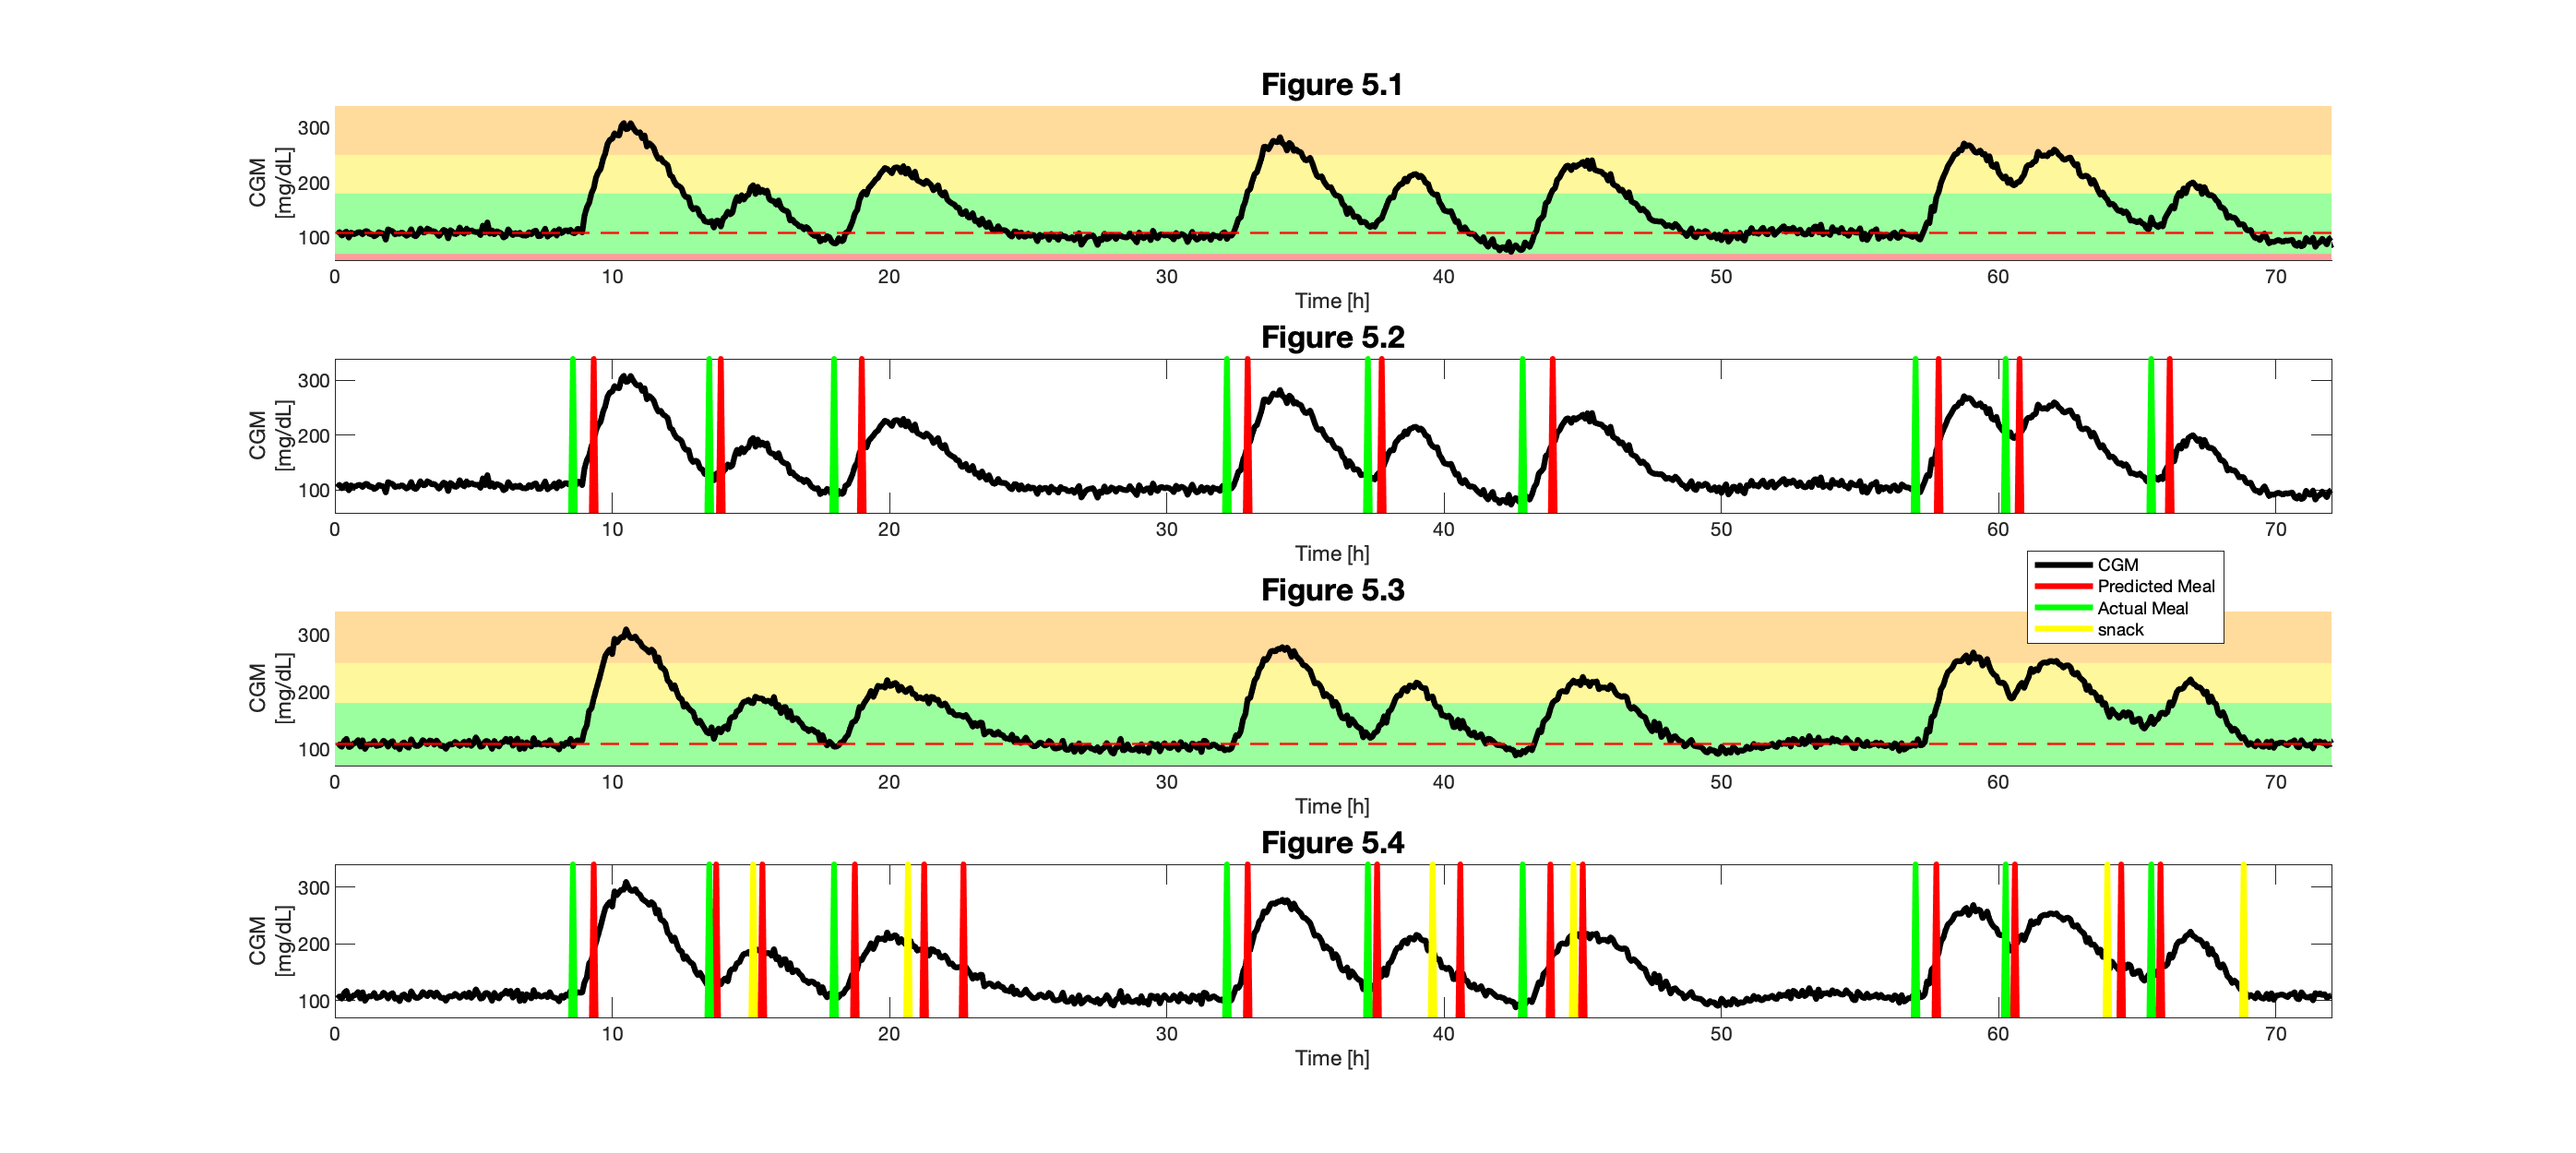
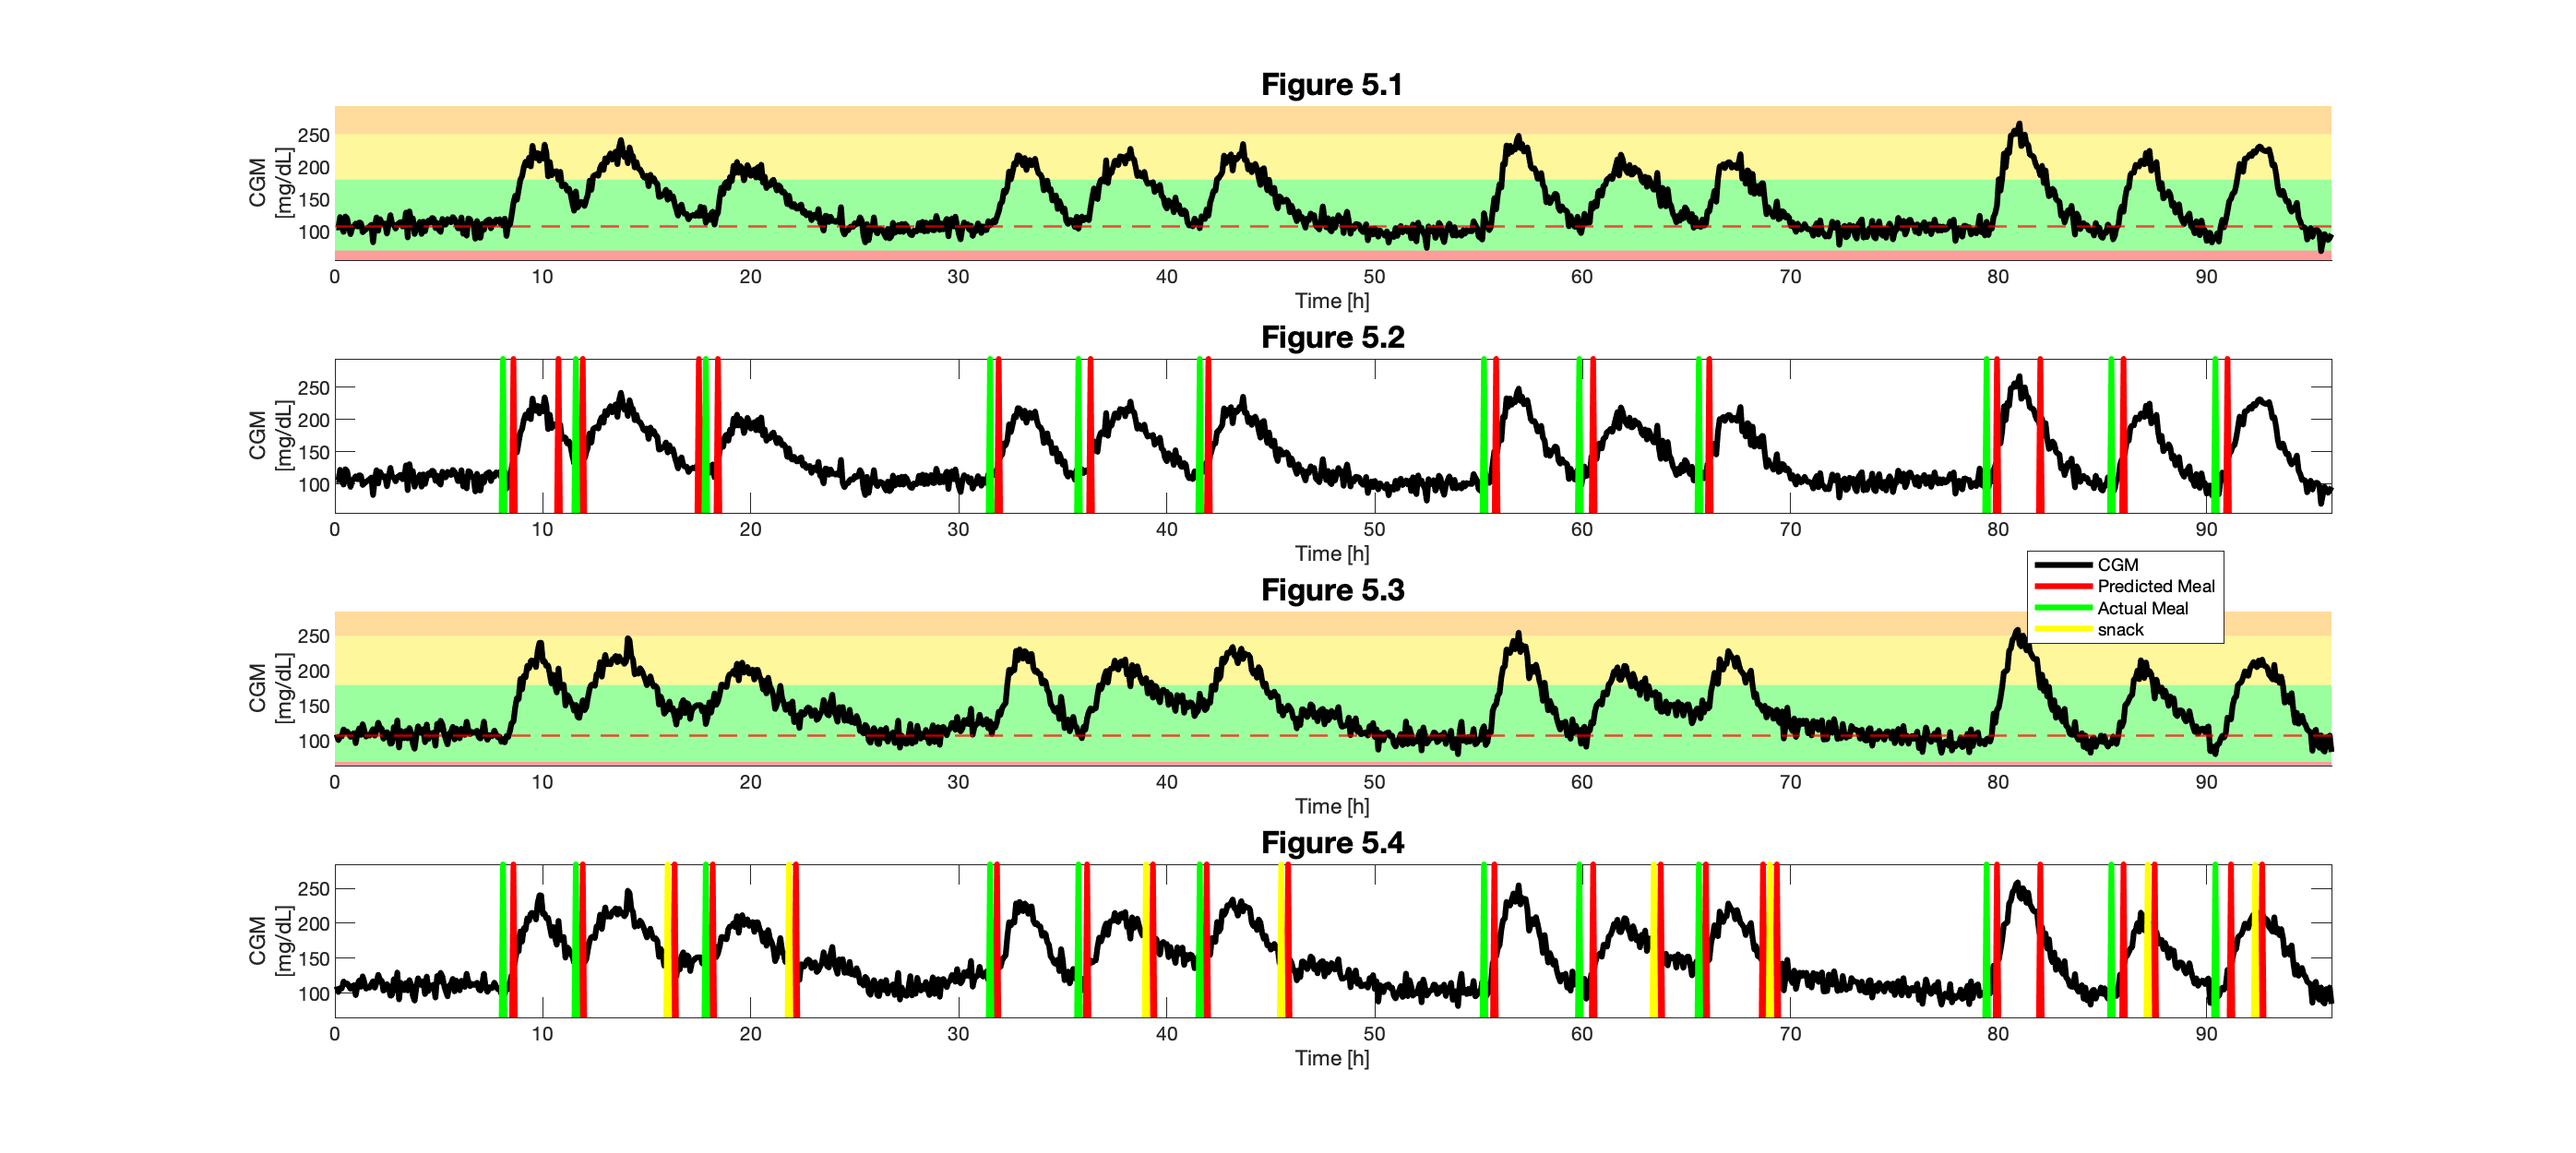
ny grid filter

diff --git a/Matlab/Meal_Detection/GRID_Filter.m b/Matlab/Meal_Detection/GRID_Filter.m
@@ -1,4 +1,4 @@
-function x=GRID_Filter(GRID)
+function [xTP, xFP]=GRID_Filter(D,GRID,t)
 %%%                     Function to handle the Grid output
 %Currently the GRID Algo returns a noisy output eg
 %0,0,0,0,0,1,1,1,1,0,0,0,0,1,1,1,0,0,0,0,0,0,0,0,0,1,1,1,1,1,1,1,1
@@ -9,13 +9,82 @@ function x=GRID_Filter(GRID)
 %GRID the binary vector produced by GridAlgo
 %% Output
 %x the filtered binary vector
-%%
+%% Merge meal peaks
+
+% Splits up a meal detected as one, but are actually two
+for i=1:length(GRID)
+   
+    if(GRID(i) == 1) % Identifies when a meal is predicted
+        j = 0;
+        while(GRID(i+j)==1) % As long as the next index in the GRID oiutput is 1 this whileloop is going
+           
+            if(i+j+5 >= length(GRID)) % Makes sure we dont go out of bound
+                break;
+            end
+            
+            % If there is a 20min gap between two meals, its merged as one
+            % meal
+           if(GRID(i+j) == 1 && GRID(i+j+1) == 0 && GRID(i+j+2) == 0 && GRID(i+j+3) == 0 && GRID(i+j+4) == 0 && GRID(i+j+5) == 1)
+              GRID(i+j+1) = 1;
+              GRID(i+j+2) = 1;
+              GRID(i+j+3) = 1;
+              GRID(i+j+4) = 1;
+           end
+
+           % If there is a 15min gap between two meals, its merged as one
+            % meal
+           if(GRID(i+j) == 1 && GRID(i+j+1) == 0 && GRID(i+j+2) == 0 && GRID(i+j+3) == 0 && GRID(i+j+4) == 1)
+              GRID(i+j+1) = 1;
+              GRID(i+j+2) = 1;
+              GRID(i+j+3) = 1;
+           end
+            
+           % If there is a 10min gap between two meals, its merged as one
+            % meal
+           if(GRID(i+j) == 1 && GRID(i+j+1) == 0 && GRID(i+j+2) == 0 && GRID(i+j+3) == 1)
+              GRID(i+j+1) = 1;
+              GRID(i+j+2) = 1;
+           end
+           
+           % If there is a 5min gap between two meals, its merged as one
+            % meal
+           if(GRID(i+j) == 1 && GRID(i+j+1) == 0 && GRID(i+j+2) == 1 )
+              GRID(i+j+1) = 1;
+           end
+           
+           % makes sure we dont go out of bound
+           if(i+j-2 == 0)
+               break;
+           end
+            
+           % If there is an actual meal inside a row of 1's in the GRID
+           % algorithm, it splits up the meal in two and makes some space
+           
+           if(D(i+j)>0)
+               GRID(i+j-1) = 0;
+               GRID(i+j-2) = 0;
+               
+               GRID(i+j) = 0;
+               GRID(i+j+1) = 0;
+               GRID(i+j+2) = 0;
+               GRID(i+j+3) = 0;
+               GRID(i+j+4) = 0;
+           end
+           
+           % update value
+           j = j+1;
+ 
+        end 
+    end
+    
+end
+
+%% The FIlter 
 %The filter
 % B=[0,1,1,1,1,1,1,1,1,1,1,1];
 B=[0,1];
 % Måske ikke det bedste filter, men det fanger sort set alle de store
 % måltider
-
 %
 locationsOfMeal=strfind(GRID,B);
 x=zeros(1,length(GRID));
@@ -23,4 +92,47 @@ x=zeros(1,length(GRID));
 %(Just the number of 0 in the B vector before the first 1)
 x([locationsOfMeal])=1;
 % fjernet +10
+
+%% Splits meals into True positive and False positive
+
+xTP = zeros(1,length(x));
+xFP = zeros(1,length(x));
+
+
+for i=1:length(x)
+   
+    % Start if there is a predicted meal from the GRID_filter output
+    if(x(i) == 1)
+        T = 0;
+        
+        % For-loop for detecting if meal is a false postitive
+        for j = 1:33 
+
+            % Out of bound fix
+            if i+j==length(x)
+            break
+            end
+            if i-j==0
+            break
+            end
+            
+            % for each step checks if a real meal is within the timeinteval
+            if(D(i+round(j/6)) > 0 || D(i-j)>0)
+                T = 1;
+                break;
+            end
+               
+        end
+    
+        % If no meal is found its a false postitive
+        if(T == 0)
+            xTP(i) = 0;
+            FP(i) = 1;
+            B = sprintf('False Positive at: %g',t(i));
+            %disp(B)
+        end
+end
+
+end
+
 end

diff --git a/Matlab/PlotsDone.m b/Matlab/PlotsDone.m
@@ -4,25 +4,18 @@ clear; clear all;
 loadLib();
 clc;
 
-Days = 3;
+Days = 4;
 InitData();
 
 % Noise Level
-Noise = 5;
-dg= 6;
-dt=2;
+Noise = 9;
+dg= 15;
+dt=5;
 
 fs = 14;
 
-if(Days == 3)
-load('TheOneAndOnlyMealPlanAndParameters.mat')
-end
-
-if(Days == 31)
 p = CreatePerson;
 Dsnack = MealPlan(Days,1)';
-end
-
 
 D = Dsnack;
 for i=1:length(D)
@@ -73,7 +66,7 @@ Gsc = mvpOutput(X,Noise); % [mg/dL]
 
 t = T*min2h;
 [GF,dGF,GRID]=GridAlgo(Gsc,dg,dt,12,t);
-x=GRID_Filter(GRID);
+[xTP xFP]=GRID_Filter(D,GRID,t);
 
 % -------------------Visualize-------------------
 % Create figure with absolute size for reproducibility
@@ -95,30 +88,19 @@ xlabel('Time [h]');
 title('Figure 5.1','FontSize',16)
 hold off
 
-%{
 subplot(412)
-plot(T*min2h, Gsc,'k-',T*min2h, GRID*max(Gsc)*1.1,'r-',T*min2h,correctMeal*max(Gsc)*1.1,'g-')
+plot(t, Gsc,'k-',t, xTP*max(Gsc)*1.1,'r-',t,correctMeal*max(Gsc)*1.1,'g-', t, FP*max(Gsc)*1.1,'b-')
 xlim([t0, tf]*min2h);
 ylim([min(Gsc)*0.8, max(Gsc)*1.1]);
 ylabel({'CGM', '[mg/dL]'});
 xlabel('Time [h]');
 title('Figure 5.2','FontSize',16)
-%}
+
 % -------------- Evaluation of simulation -------------------
 
 fprintf('---------- Measurement noise - No snack -------------- \n \n')
 
-[M, TP, Av,xTP] = MealCorrectness(D,GRID,T*min2h,1);
-
-subplot(412)
-plot(T*min2h, Gsc,'k-',T*min2h, xTP*max(Gsc)*1.1,'r-',T*min2h,correctMeal*max(Gsc)*1.1,'g-')
-xlim([t0, tf]*min2h);
-ylim([min(Gsc)*0.8, max(Gsc)*1.1]);
-ylabel({'CGM', '[mg/dL]'});
-xlabel('Time [h]');
-title('Figure 5.2','FontSize',16)
-
-
+[M, TP, Av,xTP, FP] = MealCorrectness(D,GRID,T*min2h,1);
 
 
 
@@ -149,7 +131,7 @@ Gsc = mvpOutput(X,Noise); % [mg/dL]
 
 t = T*min2h;
 [GF,dGF,GRID]=GridAlgo(Gsc,dg,dt,12,t);
-x=GRID_Filter(GRID);
+[xTP xFP]=GRID_Filter(D,GRID,t);
 
 % -------------------Visualize-------------------
 % Create figure with absolute size for reproducibility
@@ -170,31 +152,20 @@ xlabel('Time [h]');
 title('Figure 5.3','FontSize',16)
 hold off
 
-%{
-subplot(414)
-plot(T*min2h, Gsc,'k-',T*min2h, GRID*max(Gsc)*1.1,'r-',T*min2h,correctMeal*max(Gsc)*1.1,'g-',T*min2h,correctSnack*max(Gsc)*1.1,'y-')
+subplot(412)
+plot(t, Gsc,'k-',t, xTP*max(Gsc)*1.1,'r-',t,correctMeal*max(Gsc)*1.1,'g-', t, FP*max(Gsc)*1.1,'b-')
 xlim([t0, tf]*min2h);
 ylim([min(Gsc)*0.8, max(Gsc)*1.1]);
 ylabel({'CGM', '[mg/dL]'});
 xlabel('Time [h]');
-legend({'CGM','Predicted Meal','Actual Meal','snack'},'Position',[0.82 0.48 0.01 0.005])
-title('Figure 5.4','FontSize',16)
-%}
+title('Figure 5.2','FontSize',16)
 
 % -------------- Evaluation of simulation -------------------
 
 fprintf('---------- Measurement noise - With snack -------------- \n \n')
 
-[M, TP, Av,xTP] = MealCorrectness(Dsnack,GRID,T*min2h,1);
+[M, TP, Av,xTP, FP] = MealCorrectness(D,GRID,T*min2h,1);
 
-subplot(414)
-plot(T*min2h, Gsc,'k-',T*min2h, xTP*max(Gsc)*1.1,'r-',T*min2h,correctMeal*max(Gsc)*1.1,'g-',T*min2h,correctSnack*max(Gsc)*1.1,'y-')
-xlim([t0, tf]*min2h);
-ylim([min(Gsc)*0.8, max(Gsc)*1.1]);
-ylabel({'CGM', '[mg/dL]'});
-xlabel('Time [h]');
-legend({'CGM','Predicted Meal','Actual Meal','snack'},'Position',[0.82 0.48 0.01 0.005])
-title('Figure 5.4','FontSize',16)
 
 %% Save image - measurement noise
 

diff --git a/Matlab/MealDetectionAssignments.m b/Matlab/MealDetectionAssignments.m
@@ -3,7 +3,7 @@ clear; clc; clear all;
 % Function that initializes the data, and loads the functions used.
 loadLib();
 
-Days = 3;Noise = 5;
+Days = 4;Noise = 9;
 InitData();
 
 D = MealPlan(Days,1)';
@@ -1177,12 +1177,12 @@ t = T*min2h;
 % Forsøg på at opdele steder hvor den har fundet et meal, men det er
 % faktisk to
 
-[M, N, Av, xTP] = MealCorrectness(D,GRID,t,1);
+[M, N, Av, xTP, FP] = MealCorrectness(D,GRID,t,1);
 
 fig1 = figure(1);
 fig1.Position = [300 550 1740 600];
 subplot(2,1,1)
-plot(T*min2h, Gsc,'b-',t,GRID*300,'r-',t,correctMeal*350,'g-') %,t,correctSnack,'y-')
+plot(T*min2h, Gsc,'k-',t,GRID*300,'r-',t,correctMeal*350,'g-') %,t,correctSnack,'y-')
 yline(130,'LineWidth',1.2,'Color','k','LineStyle','--');
 xlim([t0, tf]*min2h);
 ylabel({'CGM measurements', '[mg/dL]'});
@@ -1190,7 +1190,7 @@ xlabel('Time [h]');
 title('Normal GRID')
 
 subplot(212)
-plot(T*min2h, Gsc,'b-',t,xTP*350,'r-',t,correctMeal*350,'g-') %,t,correctSnack,'y-')
+plot(T*min2h, Gsc,'k-',t,xTP*350,'r-',t,correctMeal*350,'g-', t,FP*350,'b-') %,t,correctSnack,'y-')
 yline(130,'LineWidth',1.2,'Color','k','LineStyle','--');
 xlim([t0, tf]*min2h);
 ylabel({'CGM measurements', '[mg/dL]'});

diff --git a/Matlab/src/util/MealCorrectness.m b/Matlab/src/util/MealCorrectness.m
@@ -1,4 +1,4 @@
-function [M, TP, Av,xTP] = MealCorrectness(D,GRID,t, statement)
+function [M, TP, Av,xTP, FalsePositive] = MealCorrectness(D,GRID,t, statement)
 %MEALCORRECTNESS is a function that computes how well the GRID algorithm
 %has found meals based on the glucose concetration.
 
@@ -89,6 +89,7 @@ X1 = sprintf('------------------------------------ \n');
 %Initialize False Positive and Improved GRID filter
 FP = 0;
 xTP = x;
+FalsePositive = zeros(1,length(x));
 
 % Find number of False positive
 for i=1:length(x)
@@ -120,8 +121,9 @@ for i=1:length(x)
         if(T == 0)
             FP = FP +1;
             xTP(i) = 0;
+            FalsePositive(i) = 1;
             B = sprintf('False Positive at: %g',t(i));
-            %disp(B)
+            disp(B)
         end
 end
 
